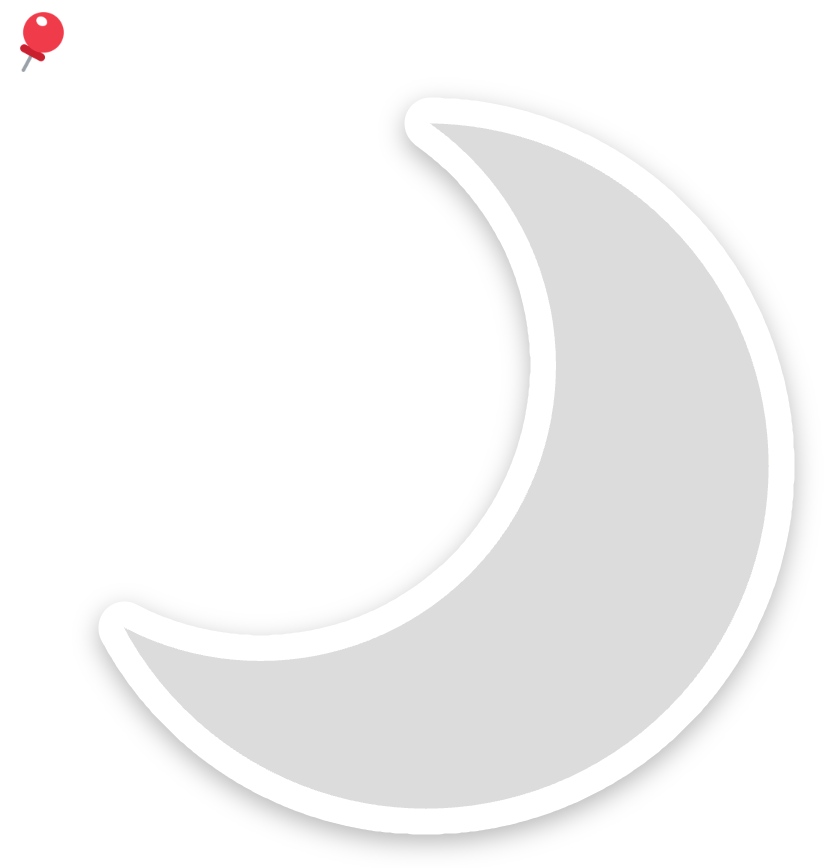
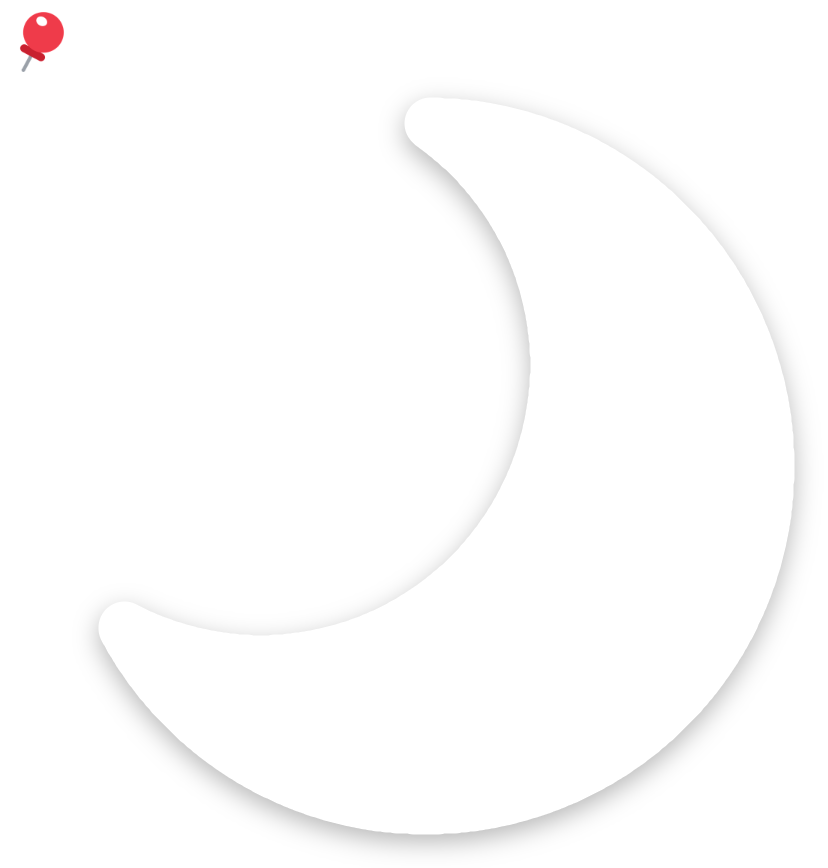
Stickers for past unfinished or missed days: blank white die-cut where missed, no grey fill

Changed region(s): [[0.151, 0.1244, 0.936, 0.9332]]

diff --git a/src/pushpin/cards.py b/src/pushpin/cards.py
@@ -749,8 +749,9 @@ function distances(rgba, w, h) {
   for (let y = 0; y < h; y++) { for (let x = 0; x < w; x++) f[x] = d[y * w + x]; pass(w); for (let x = 0; x < w; x++) d[y * w + x] = out[x]; }
   return d;
 }
-// An unfinished day: today, just the part revealed so far; a day that's over, the whole shape with
-// the grey of what was missed, the words in the part that was read (a missed day: all grey).
+// An unfinished day: today, just the part revealed so far; a day that's over, the whole shape's
+// die-cut, blank white where it was missed and the words in the part that was read (a missed day:
+// just the white die-cut).
 async function sticker(day, kind, built = 1, past = false) {
   const W = 1200, H = 768, whole = silhouette(W, H, day.flip, kind), missed = past && built < 1;
   const {inside: shape, edge} = revealed(whole, W, H, built, day.flip), outline = missed ? whole : shape;
@@ -780,12 +781,6 @@ async function sticker(day, kind, built = 1, past = false) {
   const c = out.getContext('2d');
   c.shadowColor = 'rgba(0,0,0,.28)'; c.shadowBlur = 24; c.shadowOffsetY = 8; c.drawImage(cut, 0, 0);
   c.shadowColor = 'transparent';
-  if (missed) {  // the grey of what could have been
-    const ghost = document.createElement('canvas'); ghost.width = W; ghost.height = H;
-    const gc = ghost.getContext('2d'); dino(gc, W, H, day.flip, kind);
-    gc.globalCompositeOperation = 'source-in'; gc.fillStyle = STICKER_INK; gc.fillRect(0, 0, W, H);
-    c.globalAlpha = 0.15; c.drawImage(ghost, ox, oy); c.globalAlpha = 1;
-  }
   c.font = fs + 'px Georgia, "Times New Roman", serif'; c.textBaseline = 'middle'; c.fillStyle = STICKER_INK;
   for (const g of glyphs) c.fillText(g[0], ox + g[1], oy + g[2]);
   const im = await pinIcon();
@@ -804,7 +799,7 @@ function share(day, kind, built = 1, past = false) {
     document.body.append(sheet);
   }
   const img = sheet.querySelector('img'), go = sheet.querySelector('.go'), save = sheet.querySelector('.save'), copy = sheet.querySelector('.copy');
-  img.removeAttribute('src'); img.alt = (built >= 1 ? 'A ' + kind.name + ' sticker made of the day’s articles' : past ? 'A ' + kind.name + ' sticker, grey where the day’s pushes went unread' : 'Part of a sticker made of the day’s articles');
+  img.removeAttribute('src'); img.alt = (built >= 1 ? 'A ' + kind.name + ' sticker made of the day’s articles' : past ? 'A ' + kind.name + ' sticker, blank where the day’s pushes went unread' : 'Part of a sticker made of the day’s articles');
   go.hidden = copy.hidden = true; save.removeAttribute('href'); copy.textContent = 'Copy';
   sheet.showModal();
   sticker(day, kind, built, past).then(cv => {
@@ -855,7 +850,7 @@ function build(animate) {
     canvas.setAttribute('aria-label', 'A ' + kind.name + ' for ' + when + ', ' + d.titles.length + ' of ' + d.sent + ' pushes read'
                         + (d.titles.length ? ': ' + d.titles.join('; ') : ''));
     cap.textContent = when + (done ? '' : ' · ' + d.titles.length + '/' + d.sent);
-    if (built > 0 || past) {  // tap to share it (unfinished: today, the part revealed; a past day, what was missed in grey)
+    if (built > 0 || past) {  // tap to share it (unfinished: today, the part revealed; a past day, the whole die-cut, blank where missed)
       const tap = document.createElement('button'), named = done || past;
       tap.type = 'button'; tap.className = 'dino'; tap.title = (named ? kind.name + ' · ' : '') + when;
       tap.setAttribute('aria-label', 'Share the ' + (named ? kind.name : 'picture') + ' for ' + when);

diff --git a/docs/demo-screens.md b/docs/demo-screens.md
@@ -42,13 +42,13 @@ reading to make today's word art".
 ## 4. Sharing a picture
 
 Tapping a picture makes it a sticker (an unfinished one from today shows just the part revealed so
-far; one from a day that's over shows what was missed in grey): everything read that day, every
-title with its whole abstract, written into the shape on a white die-cut with a soft shadow and
-the PushPin pin in the corner, as a PNG with a transparent background. It looks the same in any
-chat, in light or dark mode, and the words make each one the reader's own. **Share** opens the
-phone's share sheet with the image, **Copy** puts it on the clipboard to paste into a message, and
-**Save** saves it (on a phone it opens the share sheet, where Save Image puts it in Photos; a web
-page can't save to Photos directly).
+far; one from a day that's over is the whole shape's die-cut, blank white where it was missed):
+everything read that day, every title with its whole abstract, written into the shape on a white
+die-cut with a soft shadow and the PushPin pin in the corner, as a PNG with a transparent
+background. It looks the same in any chat, in light or dark mode, and the words make each one the
+reader's own. **Share** opens the phone's share sheet with the image, **Copy** puts it on the
+clipboard to paste into a message, and **Save** saves it (on a phone it opens the share sheet,
+where Save Image puts it in Photos; a web page can't save to Photos directly).
 
 <img src="screens/share-sheet.png" width="300" alt="Share sheet on the demo profile: the snowman sticker made of the day's articles, with Share, Copy and Save buttons">
 
@@ -60,8 +60,8 @@ The demo's snowman and Brontosaurus, each made of the four articles read that da
 Days that are over and weren't finished share what was missed: Oct 15 (3 of 4 read) and Oct 23
 (nothing read):
 
-<img src="screens/sticker-unfinished.png" width="420" alt="Unfinished day sticker: the read articles in part of the shape, the rest grey">
-<img src="screens/sticker-missed.png" width="200" alt="Missed day sticker: a grey moon on a white die-cut">
+<img src="screens/sticker-unfinished.png" width="420" alt="Unfinished day sticker: the read articles in part of the shape, the rest blank white die-cut">
+<img src="screens/sticker-missed.png" width="200" alt="Missed day sticker: a blank white moon die-cut">
 
 ## Before the first push: the welcome page
 
